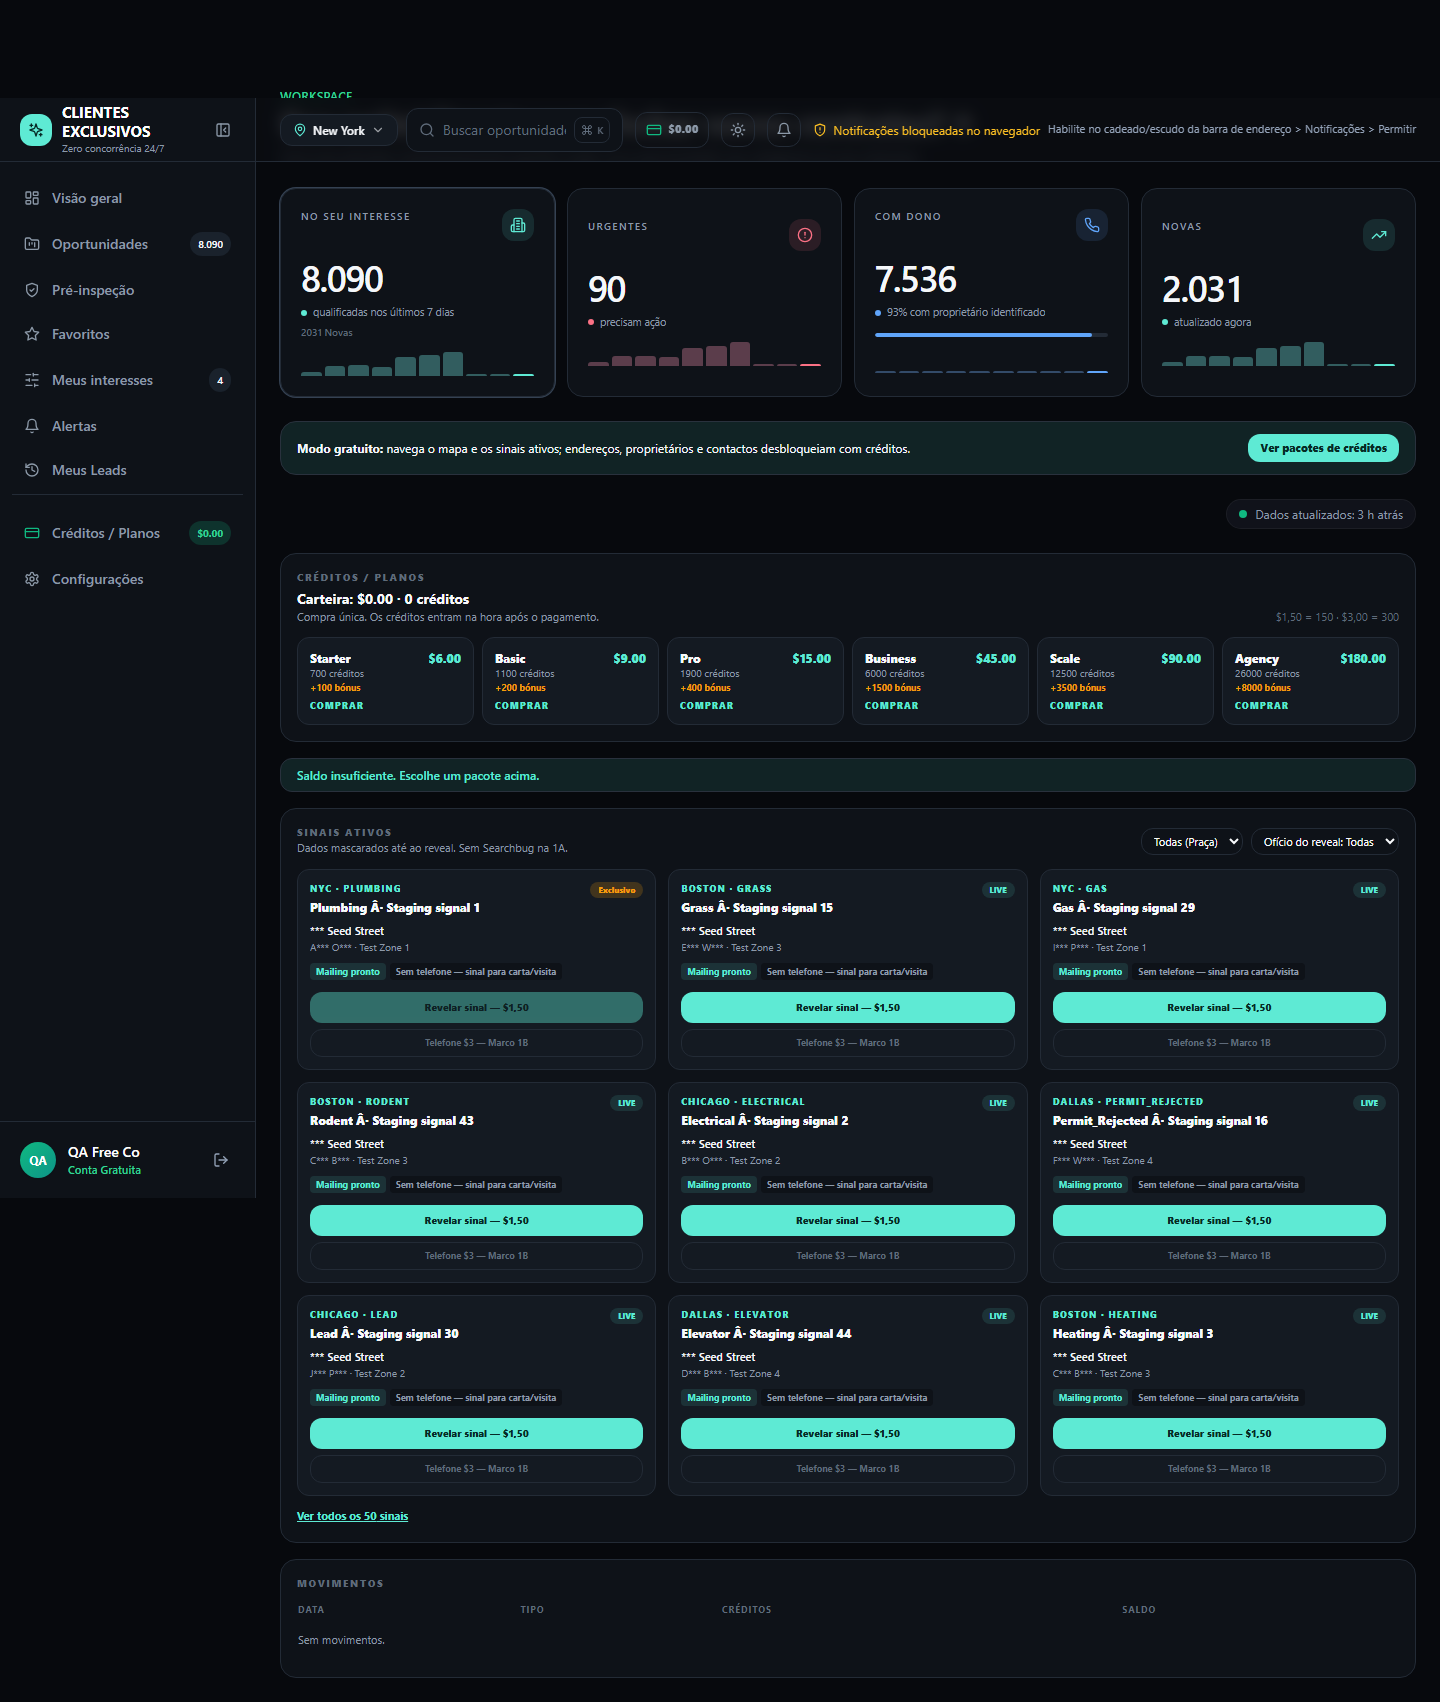
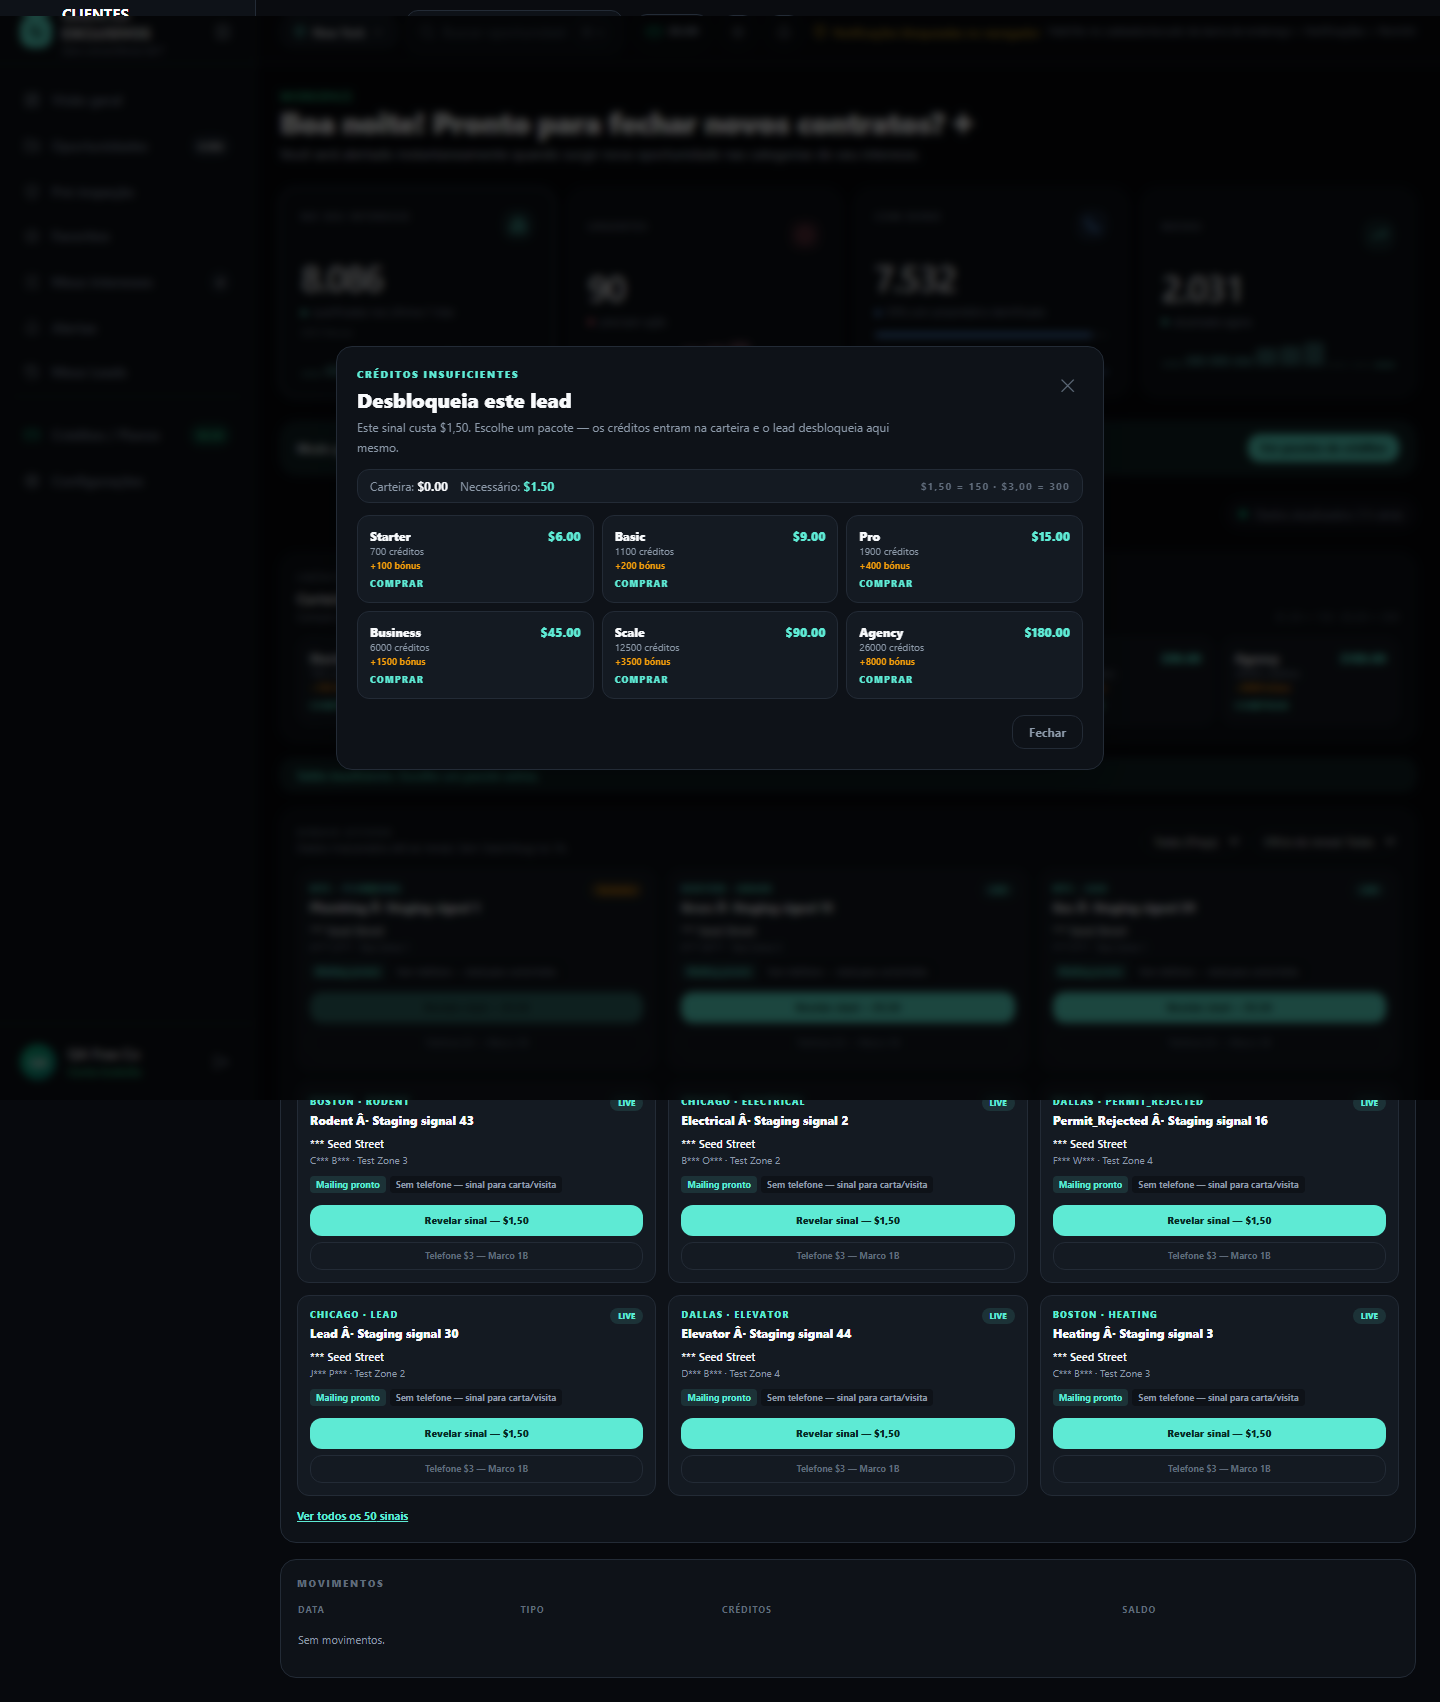
docs(marco-1a): record paywall modal audit and stable staging link

diff --git a/reports/marco-1a/README.md b/reports/marco-1a/README.md
@@ -16,7 +16,7 @@
 - Compras one-time Stripe (Checkout `mode=payment`, `price_data` inline) + webhook idempotente; modo **mock** em staging enquanto a chave `sk_test_` não está configurada.
 - Reveal de sinal **$1,50** com endereço exato, owner oficial e `mailing_address`; **sem Searchbug**.
 - Exclusividade **7 dias por ofício**; o mesmo endereço pode ser vendido a outros ofícios.
-- Paywall: “Revelar” com saldo insuficiente (402) rola para os pacotes e mostra “Saldo insuficiente. Escolhe um pacote acima.”.
+- Paywall: “Revelar” com saldo insuficiente (402) abre uma **modal elegante sobre o dashboard** (pack $6–$180, carteira atual e valor necessário). A compra dentro da modal credita a carteira e **desbloqueia o lead automaticamente**, sem sair do painel.
 - Telefone **$3** bloqueado na 1A (Marco 1B).
 - `/pt/credits` deixou de ser página autónoma: redireciona para `/{locale}/dashboard?tab=credits`.
 - Gate por token/password no staging (`STAGING_GATE=1` + `STAGING_ACCESS_TOKEN`), cookie httpOnly.
@@ -30,7 +30,8 @@
 3. Sidebar **Créditos / Planos** → carteira + 6 pacotes + sinais no dashboard.
 4. Pack Starter $6 → Checkout mock → webhook duplicado (idempotente) → **$7.00** no header.
 5. **Revelar sinal — $1,50** → modal com endereço/owner/mailing → header passa a **$5.50**.
-6. Conta sem saldo → “Revelar” devolve 402 e abre a secção de pacotes, sem debitar.
+6. Conta sem saldo → “Revelar” abre a **modal de créditos** sobre o dashboard; a compra dentro da modal (mock) credita a carteira e desbloqueia o lead no mesmo fluxo.
+7. `/pt/credits` redireciona para `/pt/dashboard?tab=credits` (sidebar e carteira visíveis).
 
 ## Provas visuais (staging)
 
@@ -46,12 +47,14 @@ Capturas em `reports/marco-1a/staging/`:
 | `06-wallet-700-dashboard.png` | Carteira do header a $7.00 após pagamento |
 | `07-reveal-dashboard.png` | Reveal $1,50: endereço + owner + mailing + exclusividade |
 | `08-wallet-after-reveal.png` | Carteira do header a $5.50 após reveal |
-| `09-insufficient-paywall.png` | Conta sem créditos: 402 e pedido de pacote |
+| `09-insufficient-paywall.png` | Conta sem créditos: modal de pacotes sobre o dashboard |
+| `10-paywall-purchase-unlock.png` | Compra na modal → créditos + lead desbloqueado sem sair do dashboard |
+| `11-credits-redirect.png` | `/pt/credits` → `/pt/dashboard?tab=credits` |
 
 ## Resultado do audit de staging
 
 ```
-RESULT ALL PASS (14/14)
+RESULT ALL PASS (17/17)
 ```
 
 - Staging gate redirects
@@ -66,8 +69,11 @@ RESULT ALL PASS (14/14)
 - Credits appear in header wallet ($7.00)
 - Signal unlocks full address + owner + mailing
 - Wallet debited $1.50 after reveal ($5.50)
-- Insufficient balance opens pack paywall
+- Insufficient balance opens elegant paywall modal
+- Paywall shows $6–$180 packs over the dashboard
 - Zero-balance wallet unchanged
+- Payment in paywall unlocks lead without leaving dashboard
+- Header wallet after paywall purchase + reveal ($5.50)
 
 ## Ledger observado
 
@@ -103,10 +109,10 @@ O webhook duplicado não altera o saldo: `stripe_events` único + `credit_purcha
 ## Staging
 
 - Backend Railway: `magic-leads-staging` (`https://magic-leads-staging-staging.up.railway.app`), ambiente `staging`, volume próprio; health `healthy`.
-- Frontend: preview Vercel da branch (`magic-leads-frontend-final-git-feat-credits-p-7904a9-fabio-dev2.vercel.app`) — alias estável que segue o último deploy da branch.
+- Frontend: **`https://magic-leads-staging-fabio-dev2.vercel.app`** (alias estável do preview aprovado). O preview antigo `magic-leads-frontend-final-gv537n0ha-fabio-dev2.vercel.app` está **obsoleto** e já não deve ser usado.
 - Seed: `backend/scripts/seed_staging_credits.py` executado no staging; **50 leads sintéticos** e contas de teste.
 - Proteção: **Vercel Deployment Protection** + **token gate** da app (`STAGING_GATE=1`); credenciais partilhadas fora de banda.
-- **Audit de staging: ALL PASS (14/14)** — dashboard oficial, mapa/sinais mascarados, pacotes, webhook idempotente, carteira $7.00, reveal $1,50, saldo $5.50 e paywall sem saldo.
+- **Audit de staging: ALL PASS (17/17)** — dashboard oficial, mapa/sinais mascarados, pacotes, webhook idempotente, carteira $7.00, reveal $1,50, saldo $5.50, modal de paywall e desbloqueio automático após compra na modal.
 - `CREDITS_MOCK=1` enquanto a chave `sk_test_` não está configurada; o caminho Stripe real está implementado e pronto a ativar.
 - O link e os tokens não ficam no repositório; são partilhados no canal seguro.
 
